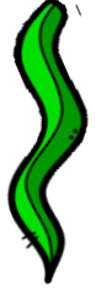
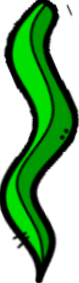
Game MVP done

diff --git a/js/index.js b/js/index.js
@@ -6,7 +6,7 @@ const ctx = canvas.getContext('2d');
 const backgrImg = new Image();
 backgrImg.src = "/images/finalback.jpg"
 
-const fishImg = new Image();
+let fishImg = new Image();
 fishImg.src = "/images/fish-fin.png"
 
 const planBottImg = new Image();
@@ -38,8 +38,6 @@ window.onload = () => {
 
         function startGame() {
 
-            
-
             const background = new Background
             const fish = new Fish
             const worm = new Worm
@@ -49,8 +47,9 @@ window.onload = () => {
             let healthPoints = 10;
             let level = 1;
             let speed = 1;
-            let arrLengthPlant = 7;
+            let arrLengthPlant = 4;
             let arrLengthEel = 1;
+
             
 
             document.addEventListener("keydown", (e) => {
@@ -62,6 +61,8 @@ window.onload = () => {
                   fish.draw()
                 }
               })
+            
+            
 
             const checkCollection = () => {
             if (fish.contains(worm)){
@@ -77,9 +78,9 @@ window.onload = () => {
                     worm.getPulledUp()
                     hook.getPulledUp()
                     gameOver()
-                }
-            } 
-        }
+                    }
+                } 
+            }
 
             const checkTrap = () => {
                 if (worm.trap == false) {
@@ -90,8 +91,8 @@ window.onload = () => {
                     hook.h = worm.y
                     hook.draw()
                     hook.move()
-                    }
                 }
+            }
             
             const checkCollitions = () => {
                 for (element of plantBottomArr) {
@@ -103,15 +104,22 @@ window.onload = () => {
                             }, 1000);
                         }
                     }
-                }
+            }
+            const checkWound = () => {
+                if (!fish.wounded) {
+                    fishImg.src = "/images/fish-fin.png"
+                } else {
+                    fishImg.src = "/images/fish-hurt.png"
+                    }
+                } 
 
             const checkCollisions = () => {
-            if (fish.contains(eal) && !fish.wounded) {
+            if (fish.contains(eal) && !fish.wounded && !fish.gameStop) {
                 healthPoints -= 2
                 fish.wounded = true
                     setTimeout(function(){
                             fish.wounded = false
-                        }, 1000);
+                        }, 700);
                     }
             }
             
@@ -120,7 +128,7 @@ window.onload = () => {
                 ctx.fillStyle = "white"
                 ctx.font = "24px Arial"
                 ctx.fillText(`Score: ${score}`, 840,40)
-              }
+            }
 
             const drawHealth = () => {
                 ctx.fillStyle = "white"
@@ -129,25 +137,46 @@ window.onload = () => {
             }
 
             const gameOver = () => {
-            background.gameStop = true
-            fish.gameStop = true
-            worm.gameStop = true
-            hook.gameStop = true
-            eal.gameStop = true
-            clearInterval(setInterval)
-            plantBottomArr.forEach(el => {
-                el.gameStop = true
-            })
-            plantBottomArr = []
+                background.gameStop = true
+                fish.gameStop = true
+                worm.gameStop = true
+                hook.gameStop = true
+                eal.gameStop = true
+                clearInterval(setInterval)
+                plantBottomArr.forEach(el => {
+                    el.gameStop = true
+                    })
+                plantBottomArr = []
             }
             
 
             const pause = () => {
-            background.gameStop = true
-            fish.gameStop = true
-            worm.gameStop = true
-            hook.gameStop = true
+                background.gameStop = true
+                fish.gameStop = true
+                worm.gameStop = true
+                hook.gameStop = true
             }
+
+            const createSeaweed = () => {
+                while (arrLengthPlant > 0) {
+                    const plantBottom = new SeaweedBottom
+                    const plantTop = new SeaweedTop
+                    plantBottomArr.unshift(plantBottom)
+                    plantBottomArr.unshift(plantTop)
+                    arrLengthPlant --
+                    console.log(plantBottomArr)
+                }
+            }
+            createSeaweed()
+            /* setInterval(() => {
+                if (!fish.gameStop) {
+                const plantBottom = new SeaweedBottom()
+                const plantTop = new SeaweedTop
+                plantBottomArr.unshift(plantBottom)
+                plantBottomArr.unshift(plantTop)
+                console.log(plantBottomArr)}
+            }, 5000) */
+
 
             const drawSeaweed = () => {
             plantBottomArr.forEach(el => { 
@@ -165,15 +194,6 @@ window.onload = () => {
             } 
 
 
-            
-            setInterval(() => {
-                if (!fish.gameStop) {
-                const plantBottom = new SeaweedBottom()
-                const plantTop = new SeaweedTop
-                plantBottomArr.unshift(plantBottom)
-                plantBottomArr.unshift(plantTop)
-                console.log(plantBottomArr)}
-            }, 5000)
 
             const update = () => {
                 ctx.clearRect(0,0,canvas.width, canvas.height)
@@ -189,8 +209,9 @@ window.onload = () => {
                 checkCollection()
                 checkTrap()
                 checkHealth()
+                checkWound()
                 drawSeaweed()
-                shortenArr()
+                // shortenArr()
                 checkCollitions()
                 checkCollisions()
                 requestAnimationFrame(update)
@@ -261,10 +282,10 @@ window.onload = () => {
 
     class SeaweedBottom {
         constructor() {
-          this.x = -(Math.floor(Math.random() * 500) ),
-          this.y = (canvas.height - 200),
-          this.w = 80,
-          this.h = 200,
+          this.x = -(Math.floor(Math.random() * 2000) ),
+          this.y = (canvas.height - (Math.floor(Math.random() * 100) )),
+          this.w = 60,
+          this.h = 300,
       
           this.gameStop = false
         }
@@ -277,16 +298,17 @@ window.onload = () => {
             this.x += 2
         }   if (this.x > 1000) {
             this.x = 0
+            this.y = (canvas.height - (Math.floor(Math.random() * 200) ))
         }
           }
     }
 
     class SeaweedTop {
         constructor() {
-          this.x = -(Math.floor(Math.random() * 100) ),
-          this.y = 0,
-          this.w = 80,
-          this.h = (Math.floor(Math.random() * 300)+ 120),
+          this.x = -(Math.floor(Math.random() * 2000) ),
+          this.y = -10,
+          this.w = 60,
+          this.h = (Math.floor(Math.random() * 180)+ 70),
       
           this.gameStop = false
         }
@@ -299,7 +321,7 @@ window.onload = () => {
             this.x += 2
         }   if (this.x > 1000) {
             this.x = 0
-            this.h = (Math.floor(Math.random() * 300) )
+            this.h = (Math.floor(Math.random() * 200)+ 120)
         }
           }
     }
@@ -307,7 +329,7 @@ window.onload = () => {
     class Worm {
         constructor() {
           this.x = 0,
-          this.y = Math.floor(Math.random() * 470)+ 100,
+          this.y = Math.floor(Math.random() * 400)+ 100,
           this.w = 30,
           this.h = 30,
       
@@ -384,11 +406,11 @@ window.onload = () => {
     }
 
 
-    function shortenArr() {
+/*     function shortenArr() {
         if (plantBottomArr.length < 10) {
             return }
             plantBottomArr.splice(10)
-        } 
+        }  */
 
     function drawGameOver() {
         let text = 'GAME OVER'
